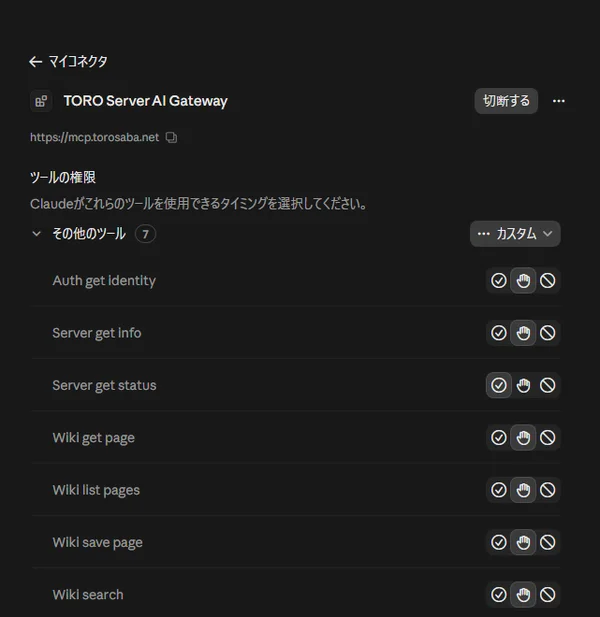
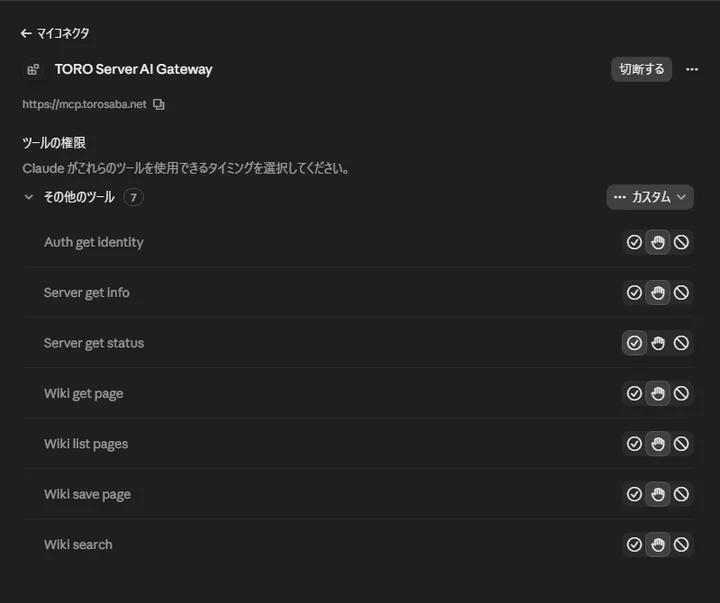
案内のスクリーンショットを新しい接続の画面で撮り直す
Claude、ChatGPT、Gemini を実際につなぎ直して撮った。案内の手順も、新しい同意の画面に合わせる。

diff --git a/assets/mcp/guide.html b/assets/mcp/guide.html
@@ -71,11 +71,11 @@
             <li>[設定] → [コネクタ] (または [カスタムコネクタを追加]) を開きます。</li>
             <li>コネクタ名に <code>TORO Server AI Gateway</code> と入力します。</li>
             <li>サーバー URL に <code>https://mcp.torosaba.net/</code> を入力し、[追加] を押します。</li>
-            <li>Discord の認証の画面で承認すると、7 種類のツールが使えるようになります。</li>
+            <li>開いた「連携の許可」の画面で承認すると、7 種類のツールが使えるようになります (未ログインなら先に Discord でログインします)。</li>
           </ol>
           <figure>
             <img src="/_assets/claude_settings.webp" alt="Claude のコネクタの設定と認可の画面" loading="lazy">
-            <figcaption>実際の画面: コネクタの認可と、7 つのツールの確認</figcaption>
+            <figcaption>実際の画面: 接続できたコネクタと、7 つのツール</figcaption>
           </figure>
         </article>
 
@@ -85,11 +85,11 @@
             <li>[設定] → [プラグイン] → [カスタム MCP サーバーを追加] を開きます。</li>
             <li>名前に <code>TORO Server</code>、接続形式に [サーバー URL] を選びます。</li>
             <li>サーバー URL に <code>https://mcp.torosaba.net/</code> を入力します (OAuth は自動で判別されます)。</li>
-            <li>同意のチェックを入れて、[プラグインとして作成] を押します。</li>
+            <li>同意のチェックを入れて [プラグインとして作成] を押し、開いた「連携の許可」の画面で承認します。</li>
           </ol>
           <figure>
             <img src="/_assets/chatgpt_settings.webp" alt="ChatGPT のプラグイン登録の画面" loading="lazy">
-            <figcaption>実際の画面: プラグインの登録と連携の完了</figcaption>
+            <figcaption>実際の画面: 接続できたプラグイン</figcaption>
           </figure>
         </article>
 
@@ -97,13 +97,13 @@
           <h3>その 3　Google Gemini</h3>
           <ol>
             <li>[連携アプリ] → [カスタムアプリを作成] を開きます。</li>
-            <li>接続先の URL に <code>https://mcp.torosaba.net/</code> を入力し、認可の画面へ進みます。</li>
-            <li>同意の画面で認証を終えると、7 種類のアクションが同期されます。</li>
+            <li>接続先の URL に <code>https://mcp.torosaba.net/</code> を入力し、Google の確認へ進みます。</li>
+            <li>開いた「連携の許可」の画面で承認すると、7 種類のアクションが同期されます。</li>
             <li>チャットの中で <code>@Toro Server Ai Gateway</code> を呼び出して使います。</li>
           </ol>
           <figure>
             <img src="/_assets/gemini_settings.webp" alt="Google Gemini のカスタムアプリの詳細画面" loading="lazy">
-            <figcaption>実際の画面: カスタムアプリの詳細と、7 つのアクションの同期</figcaption>
+            <figcaption>実際の画面: 接続できたカスタムアプリと、同期されたアクション</figcaption>
           </figure>
         </article>
 
